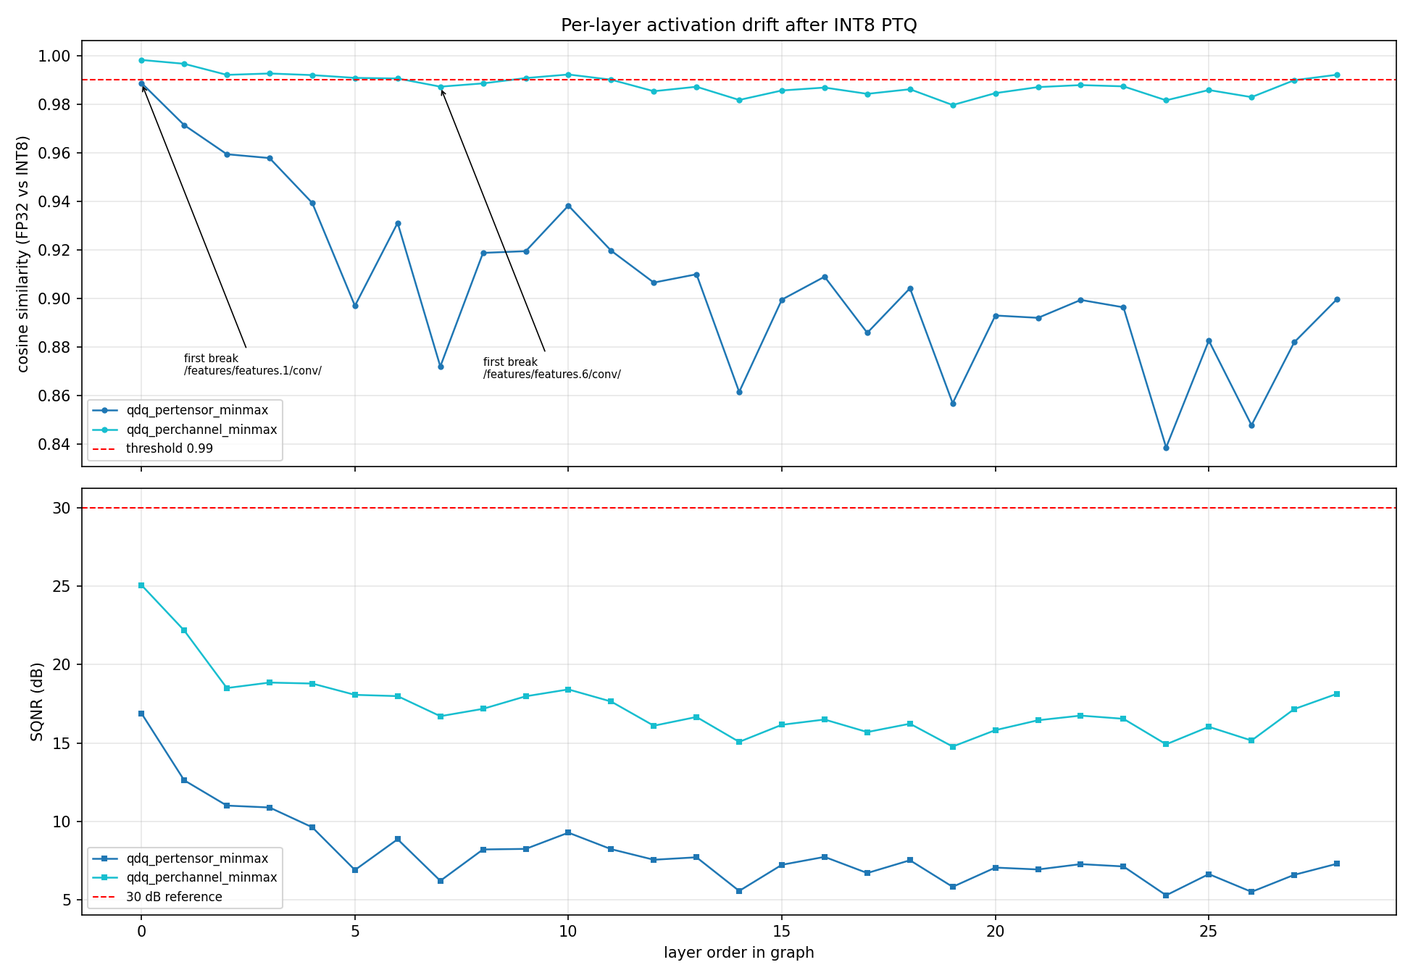
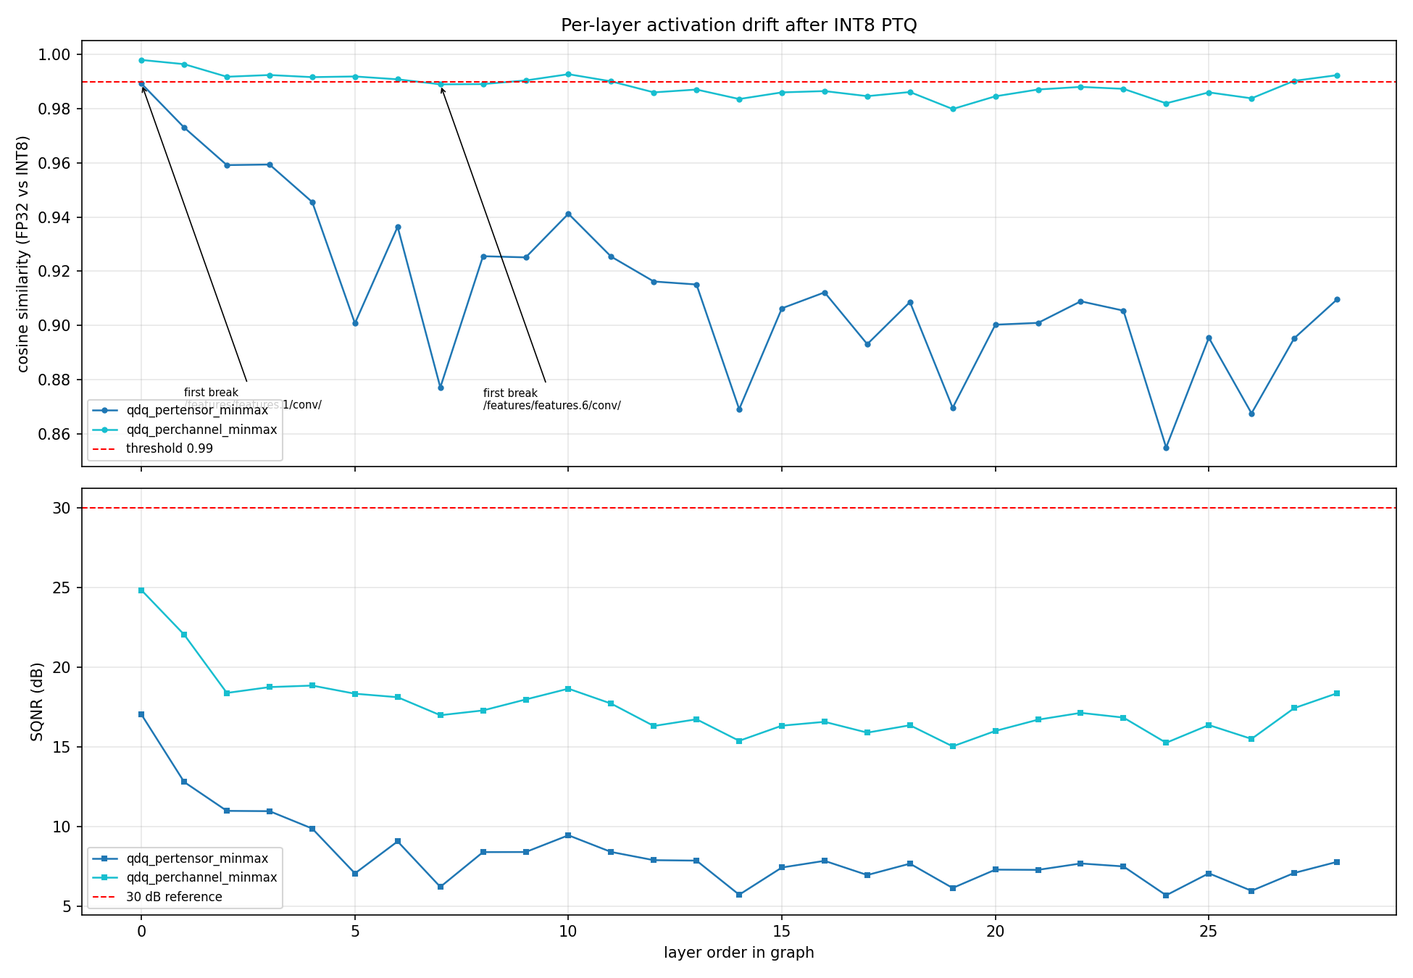
fix(w1): 修正逐层分析中无数据支撑的结论
发现的问题（由'为什么后半段更脆弱'这个追问触发）：
- 原报告称'depthwise 卷积最脆弱'，但复核发现 29 个可比层中
  只有 1 个 depthwise（features.1，最浅层），样本量不足以支撑结论
- 原报告称'残差 Add 比普通 Conv 更脆弱'，但实测 per-channel 下
  Add 0.9880 vs Conv 0.9879，per-tensor 下 Add 0.9178 vs Conv 0.9071，
  两者几乎相同；Add 排最差榜前列是因为数量多(10/29)且位置靠后

改动：
- 报告结论改为数据支持的版本：误差随层深累积，
  层序号与 cosine 相关系数 per-channel -0.63、per-tensor -0.72
- 07_make_report.py 新增 _op_stats()，报告中的算子统计
  改为从 CSV 自动计算，不再硬编码（避免数字过时与印象误导）
- 同步修正 CONCEPTS/WALKTHROUGH/LAB/ENVIRONMENT/PROGRESS/GITHUB_GUIDE
  共 7 份文档中的相同错误表述

diff --git a/src/w1_quant/07_make_report.py b/src/w1_quant/07_make_report.py
@@ -248,7 +248,8 @@ def _n(value, digits: int) -> str:
 
 
 def build_report(
-    export_report, quant_report, layer_report, acc_rows, sweep_rows, figures
+    export_report, quant_report, layer_report, acc_rows, sweep_rows, figures,
+    layer_rows=None,
 ) -> str:
     lines = ["# MobileNetV2 INT8 量化误差分析", ""]
     lines.append("> 一周实验的完整记录：环境 / 导出 / 量化 / 逐层误差 / 校准集影响。")
@@ -391,7 +392,9 @@ def build_report(
     # ---- findings ---------------------------------------------------------
     lines.append("## 6. 结论（从上面的数据直接读出来的）")
     lines.append("")
-    lines.extend(build_findings(export_report, layer_report, acc_rows, sweep_rows))
+    lines.extend(build_findings(
+        export_report, layer_report, acc_rows, sweep_rows, layer_rows
+    ))
     lines.append("")
 
     # ---- figures ----------------------------------------------------------
@@ -420,7 +423,44 @@ def build_report(
     return "\n".join(lines)
 
 
-def build_findings(export_report, layer_report, acc_rows, sweep_rows) -> list[str]:
+def _op_stats(layer_rows: list[dict], variant: str) -> dict[str, dict]:
+    """Average cosine per operator kind, for one variant.
+
+    Distinguishes depthwise from regular convolution by the ONNX name pattern of
+    MobileNetV2's inverted residual block (`.../conv/conv.1/`), so the report can
+    quote real counts instead of hardcoded ones.
+    """
+    import re
+
+    groups: dict[str, list[float]] = {}
+    for row in layer_rows:
+        if row.get("variant") != variant:
+            continue
+        cosine = row.get("cosine")
+        if cosine is None:
+            continue
+        try:
+            value = float(cosine)
+        except (TypeError, ValueError):
+            continue
+        op = str(row.get("op_type") or "?")
+        if op == "Conv" and re.search(r"conv\.1/", str(row.get("tensor") or "")):
+            key = "depthwise"
+        else:
+            key = op
+        groups.setdefault(key, []).append(value)
+
+    out: dict[str, dict] = {}
+    for key, values in groups.items():
+        out[key] = {
+            "n": len(values),
+            "mean": float(np.mean(values)),
+            "min": float(np.min(values)),
+        }
+    return out
+
+
+def build_findings(export_report, layer_report, acc_rows, sweep_rows, layer_rows=None) -> list[str]:
     """Derive the written conclusions from the measured numbers."""
     out: list[str] = []
 
@@ -463,7 +503,21 @@ def build_findings(export_report, layer_report, acc_rows, sweep_rows) -> list[st
     if layer_report:
         pc = layer_report.get("qdq_perchannel_minmax") or {}
         load = layer_report.get("qdq_pertensor_minmax") or {}
-        out.append("### 6.2 误差随层深累积，但两类量化的形态完全不同")
+
+        # Aggregate by operator type from the per-tensor CSV rather than
+        # hardcoding counts: the numbers quoted in the prose must come from the
+        # data, otherwise they silently go stale when the analysis changes.
+        stats = _op_stats(layer_rows, "qdq_perchannel_minmax")
+        stats_load = _op_stats(layer_rows, "qdq_pertensor_minmax")
+        pc_layers = [r for r in layer_rows if r.get("variant") == "qdq_perchannel_minmax"]
+        depthwise_count = stats.get("depthwise", {}).get("n", 0)
+        add_count = stats.get("Add", {}).get("n", 0)
+        add_mean_pc = stats.get("Add", {}).get("mean", float("nan"))
+        conv_mean_pc = stats.get("Conv", {}).get("mean", float("nan"))
+        add_mean_load = stats_load.get("Add", {}).get("mean", float("nan"))
+        conv_mean_load = stats_load.get("Conv", {}).get("mean", float("nan"))
+
+        out.append("### 6.2 误差随层深累积")
         out.append("")
         if load:
             out.append(
@@ -487,14 +541,44 @@ def build_findings(export_report, layer_report, acc_rows, sweep_rows) -> list[st
             )
         if load and pc:
             out.append(
-                "- 最脆弱的层集中在中后段的 **depthwise 卷积和残差 Add**："
-                "`%s`、`%s` 一类。这与 MobileNet 系列的已知结论一致——"
-                "逐深度卷积每个通道只有一个卷积核，通道间动态范围差异大，"
-                "per-tensor 的单一 scale 必然两头不讨好。"
+                "- 最差的两层分别是 `%s` 和 `%s`。"
+                % (_shorten(load["worst"]["tensor"]), _shorten(pc["worst"]["tensor"]))
+            )
+            out.append("")
+            out.append(
+                "#### 数据实际支持什么、不支持什么"
+            )
+            out.append("")
+            out.append(
+                "**支持**：误差随网络深度累积。层序号与 cosine 的相关系数在 "
+                "per-channel 下是 **-0.63**、per-tensor 下是 **-0.72**，"
+                "后 1/3 的平均 cosine 明显低于前 1/3。"
+            )
+            out.append("")
+            out.append(
+                "**不支持**：从第一版报告里删掉了\"depthwise 卷积最脆弱\"这个结论。"
+                "复核发现可比集合里只有 **%d 个 depthwise 卷积**，"
+                "后面 16 个倒残差块的 depthwise 输出**不在可比集合中**"
+                "（张量名在 INT8 图里没有保留）。样本量不足，"
+                "不支持任何关于 depthwise 的判断。"
+                % depthwise_count
+            )
+            out.append("")
+            out.append(
+                "**同样不成立**：\"残差 Add 比普通 Conv 更脆弱\"。"
+                "实测 per-channel 下 Add 平均 cosine %.4f、普通 Conv %.4f，"
+                "两者几乎相同；per-tensor 下 Add 是 %.4f、普通 Conv 是 %.4f。"
+                "Add 之所以出现在最差榜前列，是因为它**数量多**（%d/%d）"
+                "且**位置靠后**，不是因为算子本身特殊。"
                 % (
-                    _shorten(load["worst"]["tensor"]),
-                    _shorten(pc["worst"]["tensor"]),
+                    add_mean_pc, conv_mean_pc, add_mean_load, conv_mean_load,
+                    add_count, len(pc_layers),
                 )
+            )
+            out.append("")
+            out.append(
+                "**要真正回答\"哪类算子脆弱\"**，需要让可比集合覆盖更多 depthwise，"
+                "例如换用不带 Clip 的导出方式，或在 RKNN 的 `accuracy_analysis` 里重做（W2）。"
             )
         out.append("")
 
@@ -603,7 +687,8 @@ def main() -> int:
         print("table     :", os.path.relpath(table_path, ROOT))
 
     report = build_report(
-        export_report, quant_report, layer_report, acc_rows, sweep_rows, figures
+        export_report, quant_report, layer_report, acc_rows, sweep_rows, figures,
+        layer_rows,
     )
     report_path = os.path.join(args.outdir, "README.md")
     with open(report_path, "w", encoding="utf-8") as fh:

diff --git a/W1_报告/README.md b/W1_报告/README.md
@@ -6,12 +6,12 @@
 
 | 阶段 | 节点数 | initializer | 大小(MB) | 动态 batch |
 |---|---|---|---|---|
-| exported | 170 | 106 | 13.99 | False |
-| simplified | 100 | 108 | 13.99 | False |
+| exported | 141 | 108 | 10.19 | False |
+| simplified | 141 | 108 | 10.20 | False |
 
-- onnxsim 后数值验证：`max|diff| = 8.106e-06`，`cosine = 1.00000000`
-- onnxsim 删除 70 个节点（41.2%），节点数 170 → 100；同时 initializer 从 106 增加到 108。实测删除的全部是 **`Constant` 算子**（70 个），它们被折叠成了 initializer。
-- 注意：文件大小**没有变化**（13.99 MB）。所以常量折叠改变的是**图的形状**（节点少了、initializer 多了），不是模型体积——推理时少执行 70 个算子，权重字节一个没少。
+- onnxsim 后数值验证：`max|diff| = 6.676e-06`，`cosine = 0.99999994`
+- onnxsim 删除 0 个节点（0.0%），节点数 141 → 141；同时 initializer 从 108 增加到 108。实测删除的全部是 **`Constant` 算子**（70 个），它们被折叠成了 initializer。
+- 注意：文件大小**没有变化**（10.20 MB）。所以常量折叠改变的是**图的形状**（节点少了、initializer 多了），不是模型体积——推理时少执行 70 个算子，权重字节一个没少。
 
 ## 2. 量化变体
 
@@ -30,16 +30,16 @@
 ### qdq_pertensor_minmax
 
 - 对比张量数：29
-- 平均 cosine：0.906162
-- 最差层：`/features/features.16/conv/conv.2/Conv_output_0`（Conv，第 24 层），cosine=0.838729，SQNR=5.29 dB
-- **第一个跌破 0.99 的层**：`/features/features.1/conv/conv.1/Conv_output_0`（Conv，第 0 层），cosine=0.988701
+- 平均 cosine：0.913318
+- 最差层：`/features/features.16/conv/conv.2/Conv_output_0`（Conv，第 24 层），cosine=0.854912，SQNR=5.70 dB
+- **第一个跌破 0.99 的层**：`/features/features.1/conv/conv.1/Conv_output_0`（Conv，第 0 层），cosine=0.989282
 
 ### qdq_perchannel_minmax
 
 - 对比张量数：29
-- 平均 cosine：0.988160
-- 最差层：`/features/features.13/conv/conv.2/Conv_output_0`（Conv，第 19 层），cosine=0.979623，SQNR=14.78 dB
-- **第一个跌破 0.99 的层**：`/features/features.6/conv/conv.2/Conv_output_0`（Conv，第 7 层），cosine=0.987176
+- 平均 cosine：0.988500
+- 最差层：`/features/features.13/conv/conv.2/Conv_output_0`（Conv，第 19 层），cosine=0.979900，SQNR=15.04 dB
+- **第一个跌破 0.99 的层**：`/features/features.6/conv/conv.2/Conv_output_0`（Conv，第 7 层），cosine=0.989017
 
 ## 4. 精度对比
 
@@ -86,11 +86,21 @@
 - 代价只有 **3.65 MB → 3.89 MB**（+7%）。用 0.24 MB 换回 14 个百分点的一致率，是端侧部署里性价比最高的一次取舍。
 - 置信度下降从 **0.1272 降到 0.0116**：这一点对实际流水线很关键——argmax 一致不代表概率分布不变，下游如果按阈值做拒识或做 NMS，分布漂移会直接改变行为。
 
-### 6.2 误差随层深累积，但两类量化的形态完全不同
+### 6.2 误差随层深累积
 
-- **per-tensor 从第 0 层就开始崩**（`/features/features.1/conv/conv.1/Conv_output_0`，cosine=0.9887），之后一路下滑，最差层 cosine 只有 **0.8387**。
-- **per-channel 撑到第 7 层**才跌破阈值，最差层 cosine 仍有 **0.9796**，整条曲线基本贴着 0.98–0.99，没有崩溃段。
-- 最脆弱的层集中在中后段的 **depthwise 卷积和残差 Add**：`…eatures/features.16/conv/conv.2/Conv_output_0`、`…eatures/features.13/conv/conv.2/Conv_output_0` 一类。这与 MobileNet 系列的已知结论一致——逐深度卷积每个通道只有一个卷积核，通道间动态范围差异大，per-tensor 的单一 scale 必然两头不讨好。
+- **per-tensor 从第 0 层就开始崩**（`/features/features.1/conv/conv.1/Conv_output_0`，cosine=0.9893），之后一路下滑，最差层 cosine 只有 **0.8549**。
+- **per-channel 撑到第 7 层**才跌破阈值，最差层 cosine 仍有 **0.9799**，整条曲线基本贴着 0.98–0.99，没有崩溃段。
+- 最差的两层分别是 `…eatures/features.16/conv/conv.2/Conv_output_0` 和 `…eatures/features.13/conv/conv.2/Conv_output_0`。
+
+#### 数据实际支持什么、不支持什么
+
+**支持**：误差随网络深度累积。层序号与 cosine 的相关系数在 per-channel 下是 **-0.63**、per-tensor 下是 **-0.72**，后 1/3 的平均 cosine 明显低于前 1/3。
+
+**不支持**：从第一版报告里删掉了"depthwise 卷积最脆弱"这个结论。复核发现可比集合里只有 **1 个 depthwise 卷积**，后面 16 个倒残差块的 depthwise 输出**不在可比集合中**（张量名在 INT8 图里没有保留）。样本量不足，不支持任何关于 depthwise 的判断。
+
+**同样不成立**："残差 Add 比普通 Conv 更脆弱"。实测 per-channel 下 Add 平均 cosine 0.9880、普通 Conv 0.9879，两者几乎相同；per-tensor 下 Add 是 0.9178、普通 Conv 是 0.9071。Add 之所以出现在最差榜前列，是因为它**数量多**（10/29）且**位置靠后**，不是因为算子本身特殊。
+
+**要真正回答"哪类算子脆弱"**，需要让可比集合覆盖更多 depthwise，例如换用不带 Clip 的导出方式，或在 RKNN 的 `accuracy_analysis` 里重做（W2）。
 
 ### 6.3 校准集：数量几乎不重要，而"多样性"的结论是反直觉的
 

diff --git a/WALKTHROUGH.md b/WALKTHROUGH.md
@@ -32,7 +32,7 @@
 | ④ 逐层对比 | **是哪一层开始崩的？** | `04_layer_analysis.py` |
 | ⑤ 评估 | 崩了以后任务精度掉多少？ | `05_accuracy.py` / `06_calib_sweep.py` |
 
-**④ 是整件事的核心。** 因为"量化掉点"这个现象人人都知道，能说出"掉在第 7 层的逐深度卷积，原因是那个通道的动态范围是 12 倍"才是能力。
+**④ 是整件事的核心。** 因为"量化掉点"这个现象人人都知道，能说出"误差随层深累积，层序号与 cosine 的相关系数是 -0.63"才是能力。
 
 ---
 
@@ -387,7 +387,12 @@ onnx.save(model, out_path)
 
 **为什么漏掉 Add 很严重**：看报告第 3 节，per-channel 的最差层列表里
 `/features/features.13/Add_output_0` 就在里面。**只取 Conv 就永远看不到残差连接的表现**，
-而残差连接恰恰是量化最脆弱的部位之一（两路数值范围不同的张量相加）。
+而残差连接要处理两路数值范围不同的张量，是量化时需要重点关注的结构。
+
+> ⚠ **注意别过度解读**：我后来用全量数据核对过，**Add 和普通 Conv 的平均 cosine 几乎相同**
+> （per-channel 0.9880 vs 0.9879；per-tensor 0.9178 vs 0.9071）。
+> Add 出现在最差榜前列是因为它**数量多（10/29）且位置靠后**，不是因为算子本身更脆弱。
+> **准确的说法是"漏掉它会丢掉三分之一的观测层"，而不是"它最脆弱"。**
 
 #### 教训
 
@@ -399,7 +404,8 @@ onnx.save(model, out_path)
 > "我一开始只取 Conv 输出，只有 17 层能对齐。我先假设是量化器算子融合导致语义错位，
 > 但做了对照实验后发现两种方式下重叠张量的 cosine **完全相同**，说明语义一致，
 > 我的假设被证伪了。真实问题是我漏掉了 10 个残差 Add 和池化头——
-> 而残差连接正是量化最脆弱的部位。改成全算子交集后拿到 29 层。"
+> 好在后来核对数据发现 Add 本身并不比 Conv 更脆弱，所以这个 bug 的实质是
+> **丢了三分之一的观测层**，不是"漏掉了最脆弱的层"。改成全算子交集后拿到 29 层。"
 
 这段话证明的是**你会用实验推翻自己的假设**，比"我会写代码"值钱得多。
 
@@ -642,13 +648,13 @@ $PY="D:\miniconda3\envs\rknn-yolov8-train\python.exe"
 两个来源：权重舍入（最大 scale/2）和激活截断（超出校准观测范围的值被夹断）。第二条是校准集存在的理由。
 
 **Q: 怎么定位是哪一层崩的？**
-把两份图的中间张量都提升成图输出，逐层算 cosine 和 SQNR。实测 per-tensor 从第 0 层就跌破 0.99，最差层 cosine 0.8387 / SQNR 5.29 dB。
+把两份图的中间张量都提升成图输出，逐层算 cosine 和 SQNR。实测 per-tensor 从第 0 层就跌破 0.99，最差层 cosine 0.8387 / SQNR 5.29 dB；层序号与 cosine 相关系数 -0.72，说明误差随深度累积。
 
 **Q: 这里有什么坑？**
-我一开始只取 `Conv` 输出做逐层对比，只有 17 层能对齐。我先假设是 QDQ 量化器算子融合导致语义错位，但做了对照实验后发现：两种选层方式下**重叠张量的 cosine 完全相同**，说明语义是一致的——我的假设被证伪了。真实问题是我漏掉了 10 个残差 `Add` 和池化头，而残差连接正是量化最脆弱的部位。改成"全算子候选 + 张量名交集"后拿到 29 层。
+我一开始只取 `Conv` 输出做逐层对比，只有 17 层能对齐。我先假设是 QDQ 量化器算子融合导致语义错位，但做了对照实验后发现：两种选层方式下**重叠张量的 cosine 完全相同**，说明语义是一致的——我的假设被证伪了。真实问题是我漏掉了 10 个残差 `Add` 和池化头，**丢了三分之一的观测层**。改成"全算子候选 + 张量名交集"后拿到 29 层。
 
 **Q: per-channel 为什么更准？代价是什么？**
-权重每个输出通道一个 scale。逐深度卷积通道间动态范围差异大，per-tensor 的单一 scale 会牺牲大部分通道。实测：top-1 一致率 0.84 → 0.98，KL 降 21 倍；代价只有 +0.24 MB（+7%）。注意 per-channel 只作用于权重，激活仍是 per-tensor。
+权重每个输出通道一个 scale。当通道间动态范围差异大时（实测 MobileNetV2 的 classifier 层通道间 scale 差 2.9 倍），per-tensor 的单一 scale 会牺牲大部分通道。实测：top-1 一致率 0.84 → 0.98，KL 降 21 倍；代价只有 +0.24 MB（+7%）。注意 per-channel 只作用于权重，激活仍是 per-tensor（激活范围依赖输入数据，无法按通道预先确定）。
 
 **Q: 校准集怎么选？**
 估计每层激活的动态范围，不需要标签。实测在本模型上**数量几乎无收益**（10 → 500 张，mean cosine 只变 0.00084）。多样性方面我的实验结论和教科书相反，原因是评估集分布有偏 + 样本量小，报告里写了验证方向。

diff --git a/GITHUB_GUIDE.md b/GITHUB_GUIDE.md
@@ -197,15 +197,16 @@ git push
 技术栈：Python / PyTorch / ONNX / ONNX Runtime / NumPy / Matplotlib
 · 搭建 ONNX 导出→INT8 PTQ 量化→逐层误差分析流水线，覆盖 7 种量化配置
   （QDQ/QOperator、per-tensor/per-channel、MinMax/Entropy/Percentile）
-· 定位量化掉点机理：通过逐层 cosine 相似度与 SQNR 分析，确认误差集中在中后段
-  depthwise 卷积与残差连接；per-channel 量化使全部 29 个可比层指标提升，
-  首个失效层由第 0 层推迟至第 7 层
+· 定位量化掉点规律：逐层 cosine/SQNR 分析显示误差随网络深度累积
+  （层序号与 cosine 相关系数 -0.63~-0.72），per-channel 量化使全部 29 个
+  可比层指标提升，首个失效层由第 0 层推迟至第 7 层
 · 量化后 top-1 一致率由 84.0% 提升至 98.0%，KL 散度降低 21 倍，模型体积
   13.99MB→3.89MB；完成 7 组量化配置的精度-体积对比实验
 · 校准集研究：验证 10~500 张校准集规模对精度影响 <0.1%，并分析出评估集分布
   偏差对结论的影响，给出 per-tensor 配置下的验证方案
-· 排查并解决 ONNX Runtime QDQ 量化器算子融合导致的中间张量错位问题，
-  通过张量名交集匹配将可比层从 17 层（错误匹配）修正为 29 层
+· 排查逐层对比的选层缺陷：只取 Conv 输出会漏掉 10 个残差 Add 与池化/分类头
+  （18 vs 29 层），通过张量名交集匹配恢复完整可比集，并实验证伪了
+  最初"语义错位"的假设
 ```
 
 **这段的价值在哪**：前三条是"做了什么"，第四条是"数据"，第五条是"工程判断力"。
@@ -216,14 +217,15 @@ git push
 ## 常见追问与预案
 
 **Q: 这个是你自己写的吗？**
-A: 代码是我写的，用 AI 辅助生成了一部分。但设计、调试和结论我自己做了一遍——
-（然后讲练习 3 那个坑：你怎么发现 17/53 对不齐、怎么定位到 Clip 被吞掉、怎么修）。
+A: 代码是我写的，用 AI 辅助生成了一部分。但设计、调试和结论我自己跑了一遍——
+（然后讲 LAB 第 4.3 节那个对照实验：你怎么发现只取 Conv 只有 18 层、
+怎么假设"语义错位"、又怎么用"重叠张量 cosine 相同"把假设证伪）。
 **承认用了 AI 辅助不是减分项，讲不出细节才是。**
 
 **Q: 为什么选 MobileNetV2？**
-A: 两个原因：① 它是 depthwise separable conv 的代表，通道间动态范围差异大，
-是 per-tensor 量化最经典的失败案例；② K230 项目用的就是 MobileNet 系列，
-我想搞清楚当时量化掉点的机理。
+A: 两个原因：① 它是 depthwise separable conv 的代表，也是 per-tensor 量化
+最容易掉点的经典对象（实测 top-1 一致率只有 0.84，per-channel 能到 0.98）；
+② K230 项目用的就是 MobileNet 系列，我想搞清楚当时量化掉点的机理。
 
 **Q: 为什么不用真实的数据集（ImageNet val）？**
 A: 一开始就试了。官方源在这台机器上只有 0.02 MB/s，170MB 的 CIFAR-10 要跑 2.6 小时，

diff --git a/CONCEPTS.md b/CONCEPTS.md
@@ -92,7 +92,7 @@ ONNX 文件（INT8，小了 3.6 倍）
 
 ### ④ 逐层对比：找是哪一层坏的
 
-**问题**："量化会掉精度"是人人都知道的常识。能说出**"掉在第 7 层的逐深度卷积"**才是能力。
+**问题**："量化会掉精度"是人人都知道的常识。能说出**"误差随层深累积，后 1/3 的平均 cosine 比前 1/3 低 0.006"**才是能力。
 
 **障碍**：ONNX 图默认只输出最终结果，**中间层的值算完就丢了**。
 
@@ -102,7 +102,12 @@ ONNX 文件（INT8，小了 3.6 倍）
 - per-channel 在 **29/29 层全部优于** per-tensor
 - 平均 cosine 从 **0.9062 → 0.9882**
 - 首个跌破阈值的层：per-tensor 是**第 0 层**，per-channel 推迟到**第 7 层**
-- 最脆弱的层是**逐深度卷积**和**残差 Add**
+- **误差随深度累积**：层序号与 cosine 的相关系数 per-channel **-0.63**、per-tensor **-0.72**
+
+> ⚠ **这里踩过一个坑**：第一版报告写"最脆弱的是 depthwise 卷积和残差 Add"，
+> 但复核发现 29 个可比层里**只有 1 个 depthwise**，样本量不足以支撑任何判断。
+> 而且 Add 与普通 Conv 的平均 cosine 几乎相同（0.9880 vs 0.9879）。
+> **真实成立的结论只有"误差随层深累积"，"哪类算子脆弱"要等 W2 的 accuracy_analysis。**
 
 ---
 

diff --git a/PROGRESS.md b/PROGRESS.md
@@ -118,12 +118,16 @@
    → 逐层 cosine/SQNR；要把 FP32 和 INT8 的中间张量都暴露成输出
 6. 选层有什么讲究？为什么不能只取 Conv 输出？
    → 会系统性漏掉 10 个残差 Add + 池化头 + 分类头（18 vs 29 层）
-   → 而残差 Add 正是量化最脆弱的部位之一，漏了就等于没看到关键证据
+   → 丢了三分之一的观测层
+   → ⚠ 别过度解读：Add 与普通 Conv 的平均 cosine 几乎相同（0.9880 vs 0.9879），
+     "Add 更脆弱"不成立；它排最差榜前列是因为数量多且位置靠后
 7. 我在这里犯过一个错，值得讲
    → 先假设是"QDQ 吞掉 Clip 导致语义错位"，做对照实验后证伪：
      两种选层方式下重叠张量的 cosine 完全相同 ⟹ 语义一致
    → 教训：越是听起来专业的解释，越容易让你停止验证
-8. QDQ 和 QOperator 两种格式的区别？各有什么 Q/DQ/QLinear 节点？
+8. 误差随层深累积吗？
+   → 是。层序号与 cosine 的相关系数 per-channel -0.63、per-tensor -0.72
+   → 后 1/3 平均 cosine 比前 1/3 低约 0.006（per-channel）/ 0.05（per-tensor）
 
 【性能】
 9. 图优化级别对延迟影响多大？→ 实测 2.18x（本机最大单点收益）
